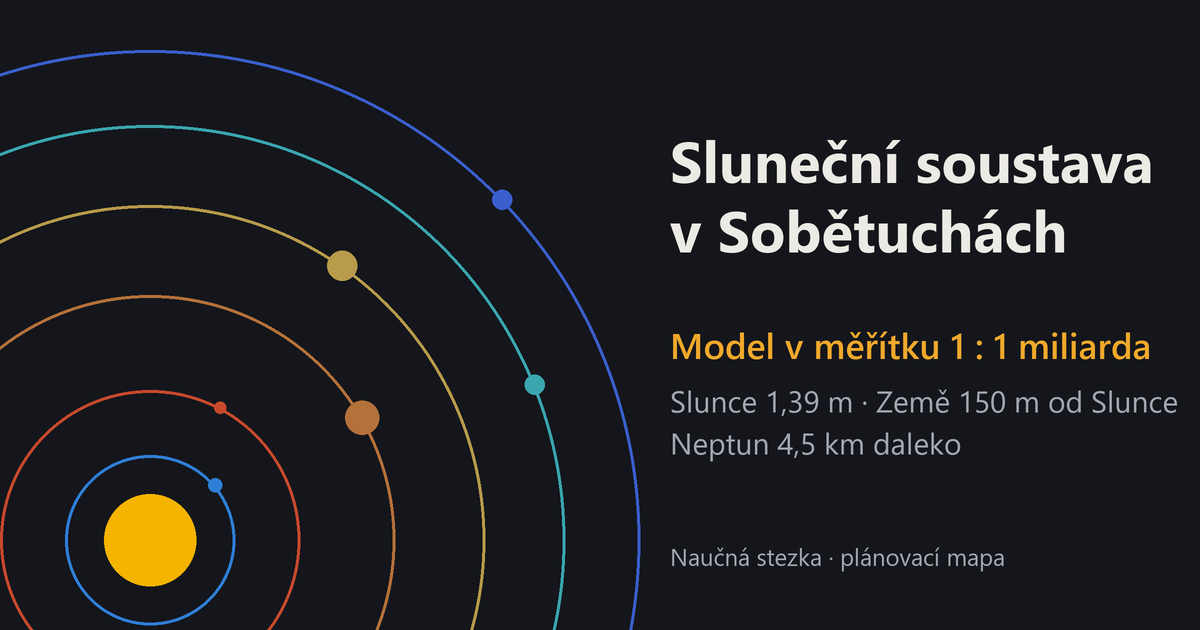
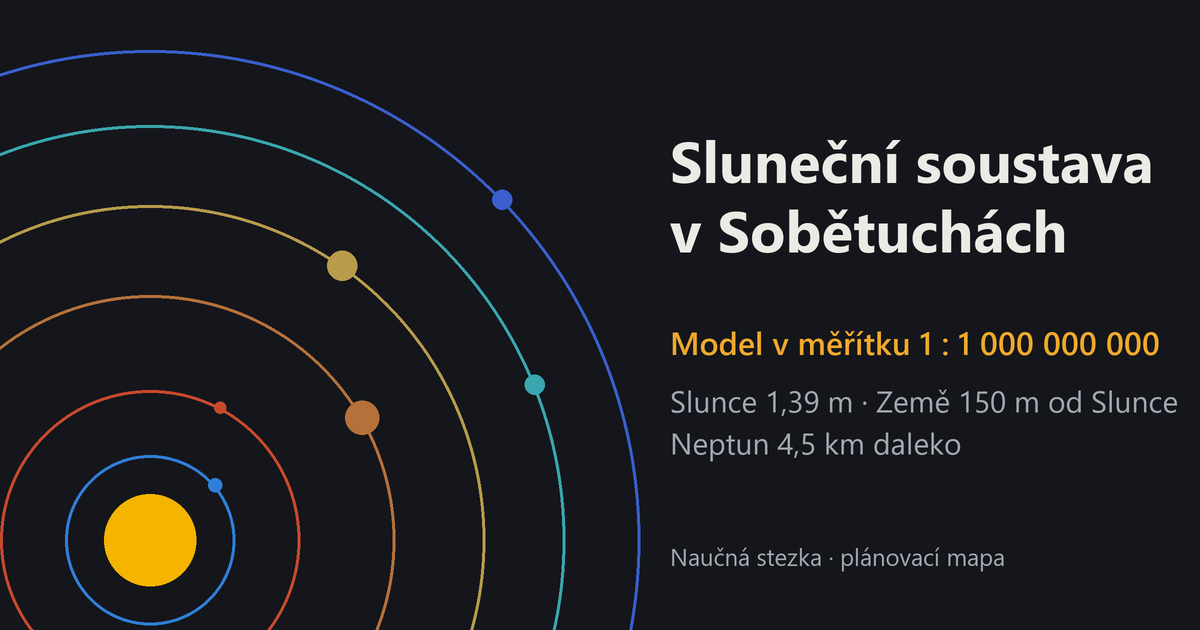
Write the scale as 1 : 1 000 000 000 instead of words

Changed region(s): [[0.555, 0.5127, 0.9867, 0.573]]

diff --git a/docs/index.html b/docs/index.html
@@ -4,19 +4,19 @@
   <meta charset="utf-8">
   <meta name="viewport" content="width=device-width, initial-scale=1">
   <title>Sluneční soustava Sobětuchy</title>
-  <meta name="description" content="Model sluneční soustavy v měřítku 1 : 1 miliarda jako naučná stezka: Slunce v obci, planety na sloupcích po okolních cestách, Neptun 4,5 km daleko.">
+  <meta name="description" content="Model sluneční soustavy v měřítku 1 : 1 000 000 000 jako naučná stezka: Slunce v obci, planety na sloupcích po okolních cestách, Neptun 4,5 km daleko.">
   <!-- Link previews (WhatsApp, Facebook, Messenger, X, …); image is generated by tools/make_og_image.py -->
   <meta property="og:type" content="website">
   <meta property="og:locale" content="cs_CZ">
   <meta property="og:site_name" content="Sluneční soustava v Sobětuchách">
   <meta property="og:url" content="https://nobodov.github.io/solar-system-sobetuchy/">
   <meta property="og:title" content="Sluneční soustava v Sobětuchách">
-  <meta property="og:description" content="Model sluneční soustavy v měřítku 1 : 1 miliarda jako naučná stezka: Slunce v obci, planety na sloupcích po okolních cestách, Neptun 4,5 km daleko.">
+  <meta property="og:description" content="Model sluneční soustavy v měřítku 1 : 1 000 000 000 jako naučná stezka: Slunce v obci, planety na sloupcích po okolních cestách, Neptun 4,5 km daleko.">
   <meta property="og:image" content="https://nobodov.github.io/solar-system-sobetuchy/img/og-preview.png">
   <meta property="og:image:type" content="image/png">
   <meta property="og:image:width" content="1200">
   <meta property="og:image:height" content="630">
-  <meta property="og:image:alt" content="Schéma sluneční soustavy: Slunce a dráhy planet, model v měřítku 1 : 1 miliarda">
+  <meta property="og:image:alt" content="Schéma sluneční soustavy: Slunce a dráhy planet, model v měřítku 1 : 1 000 000 000">
   <meta name="twitter:card" content="summary_large_image">
   <link rel="canonical" href="https://nobodov.github.io/solar-system-sobetuchy/">
   <link rel="icon" href="img/favicon.svg" type="image/svg+xml">
@@ -34,7 +34,7 @@
           a planety po okolních cestách jako jednotlivá zastavení naučné stezky. Velikosti i vzdálenosti budou ve stejném měřítku.
         </p>
         <p>
-          V&nbsp;měřítku 1&nbsp;:&nbsp;1&nbsp;miliarda má Slunce průměr 1,39&nbsp;m.
+          V&nbsp;měřítku 1&nbsp;:&nbsp;1&nbsp;000&nbsp;000&nbsp;000 má Slunce průměr 1,39&nbsp;m.
           Země je kulička velikosti korálku, 150&nbsp;m od Slunce, a Neptun stojí 4,5&nbsp;km daleko.
           Jednotlivé planety by byly na sloupech, pilířcích s doprovodnými informacemi.
           Při procházce tak člověk na vlastní nohy pozná, jak je sluneční soustava velká
@@ -79,7 +79,7 @@
           <a class="model-photo" href="https://commons.wikimedia.org/wiki/File:Planetenweg-Uetliberg-Sonne.jpg" target="_blank" rel="noopener" title="Původní fotografie na Wikimedia Commons"><img style="object-position: center 15%" src="img/models/uetliberg-sun.jpg" alt="Zlatá koule Slunce na stožáru, Planetenweg Uetliberg" loading="lazy"></a>
           <figcaption>
             <h3>Planetenweg Uetliberg, Curych</h3>
-            <p class="model-meta">1&nbsp;:&nbsp;1&nbsp;mld. · Neptun 4,5&nbsp;km · Pluto ~6&nbsp;km</p>
+            <p class="model-meta">1&nbsp;:&nbsp;1&nbsp;000&nbsp;000&nbsp;000 · Neptun 4,5&nbsp;km · Pluto ~6&nbsp;km</p>
             <p class="model-desc">Slunce jako zlatá koule na stožáru u horní stanice lanovky.</p>
             <p class="model-links"><a href="https://de.wikipedia.org/wiki/Planetenweg_Uetliberg" target="_blank" rel="noopener">Wikipedie (de)</a> · <a href="https://commons.wikimedia.org/wiki/Category:Planetenweg_Uetliberg-Felsenegg" target="_blank" rel="noopener">Galerie na Commons</a></p>
             <p class="credit">Foto: Micha L. Rieser, <a href="https://commons.wikimedia.org/wiki/File:Planetenweg-Uetliberg-Sonne.jpg">Wikimedia Commons</a>, licence Attribution</p>
@@ -98,7 +98,7 @@
           <a class="model-photo" href="https://commons.wikimedia.org/wiki/File:HK_T%C5%99ebe%C5%A1_18_Planet%C3%A1rn%C3%AD_stezka_1.jpg" target="_blank" rel="noopener" title="Původní fotografie na Wikimedia Commons"><img src="img/models/hradec-sun.jpg" alt="Betonová koule Slunce na Planetární stezce v Hradci Králové" loading="lazy"></a>
           <figcaption>
             <h3>Planetární stezka Hradec Králové</h3>
-            <p class="model-meta">1&nbsp;:&nbsp;1&nbsp;mld. · Neptun 4,5&nbsp;km · 13 zastavení</p>
+            <p class="model-meta">1&nbsp;:&nbsp;1&nbsp;000&nbsp;000&nbsp;000 · Neptun 4,5&nbsp;km · 13 zastavení</p>
             <p class="model-desc">Slunce u hvězdárny, trasa vede kolem rybníků až k&nbsp;Plutu u lesního hřbitova.</p>
             <p class="model-links"><a href="https://cs.wikipedia.org/wiki/Hv%C4%9Bzd%C3%A1rna_a_planet%C3%A1rium_v_Hradci_Kr%C3%A1lov%C3%A9#Tematick%C3%A9_stezky" target="_blank" rel="noopener">Wikipedie</a> · <a href="https://commons.wikimedia.org/wiki/Category:Planet%C3%A1rn%C3%AD_stezka_Hradec_Kr%C3%A1lov%C3%A9" target="_blank" rel="noopener">Galerie na Commons</a></p>
             <p class="credit">Foto: Lukáš Nekolný, <a href="https://commons.wikimedia.org/wiki/File:HK_T%C5%99ebe%C5%A1_18_Planet%C3%A1rn%C3%AD_stezka_1.jpg">Wikimedia Commons</a>, CC BY-SA 4.0</p>

diff --git a/docs/map.html b/docs/map.html
@@ -16,7 +16,7 @@
   <meta property="og:image:type" content="image/png">
   <meta property="og:image:width" content="1200">
   <meta property="og:image:height" content="630">
-  <meta property="og:image:alt" content="Schéma sluneční soustavy: Slunce a dráhy planet, model v měřítku 1 : 1 miliarda">
+  <meta property="og:image:alt" content="Schéma sluneční soustavy: Slunce a dráhy planet, model v měřítku 1 : 1 000 000 000">
   <meta name="twitter:card" content="summary_large_image">
   <link rel="canonical" href="https://nobodov.github.io/solar-system-sobetuchy/map.html">
   <link rel="icon" href="img/favicon.svg" type="image/svg+xml">

diff --git a/tools/make_og_image.py b/tools/make_og_image.py
@@ -40,12 +40,16 @@ size = 70
 while ImageFont.truetype(FONTS + 'segoeuib.ttf', size * S).getlength('Sluneční soustava') > max_width:
     size -= 1
 bold = ImageFont.truetype(FONTS + 'segoeuib.ttf', size * S)
-semi = ImageFont.truetype(FONTS + 'seguisb.ttf', 36 * S)
+subtitle = 'Model v měřítku 1 : 1 000 000 000'
+sub_size = 36
+while ImageFont.truetype(FONTS + 'seguisb.ttf', sub_size * S).getlength(subtitle) > max_width:
+    sub_size -= 1
+semi = ImageFont.truetype(FONTS + 'seguisb.ttf', sub_size * S)
 regular = ImageFont.truetype(FONTS + 'segoeui.ttf', 30 * S)
 small = ImageFont.truetype(FONTS + 'segoeui.ttf', 24 * S)
 d.text((x0, 120 * S), 'Sluneční soustava', font=bold, fill=TEXT)
 d.text((x0, (120 + size * 1.2) * S), 'v Sobětuchách', font=bold, fill=TEXT)
-d.text((x0, 320 * S), 'Model v měřítku 1 : 1 miliarda', font=semi, fill=ACCENT)
+d.text((x0, 320 * S), subtitle, font=semi, fill=ACCENT)
 d.text((x0, 380 * S), 'Slunce 1,39 m · Země 150 m od Slunce', font=regular, fill=MUTED)
 d.text((x0, 422 * S), 'Neptun 4,5 km daleko', font=regular, fill=MUTED)
 d.text((x0, 540 * S), 'Naučná stezka · plánovací mapa', font=small, fill=MUTED)

diff --git a/README.md b/README.md
@@ -1,6 +1,6 @@
 # Sluneční soustava v Sobětuchách
 
-Záměr terénního modelu sluneční soustavy v obci Sobětuchy. Slunce má stát v obci a planety po okolních cestách, ve stejném měřítku pro velikost i vzdálenost (1 : 1 miliarda, Neptun 4,5 km od Slunce).
+Záměr terénního modelu sluneční soustavy v obci Sobětuchy. Slunce má stát v obci a planety po okolních cestách, ve stejném měřítku pro velikost i vzdálenost (1 : 1 000 000 000, Neptun 4,5 km od Slunce).
 
 - 🌍 **Informační web:** https://nobodov.github.io/solar-system-sobetuchy/
 - 🗺 **Plánovací mapa:** https://nobodov.github.io/solar-system-sobetuchy/map.html
